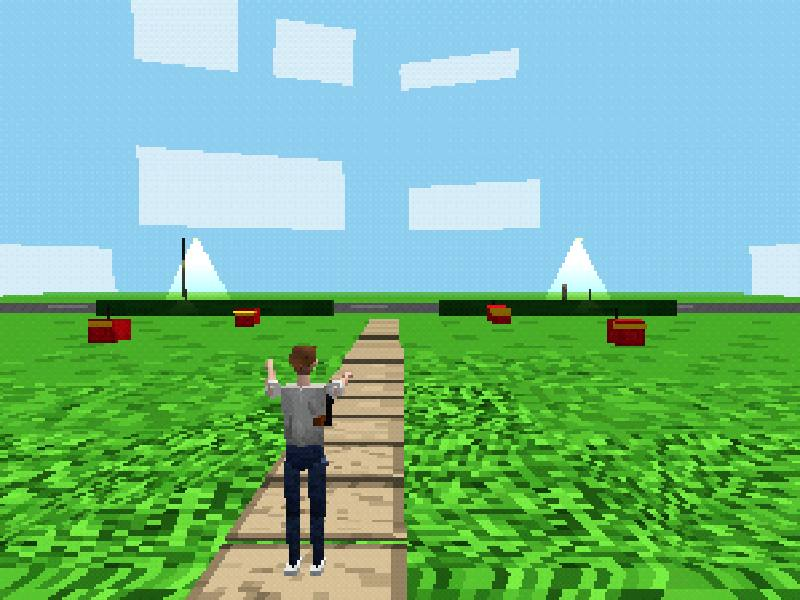
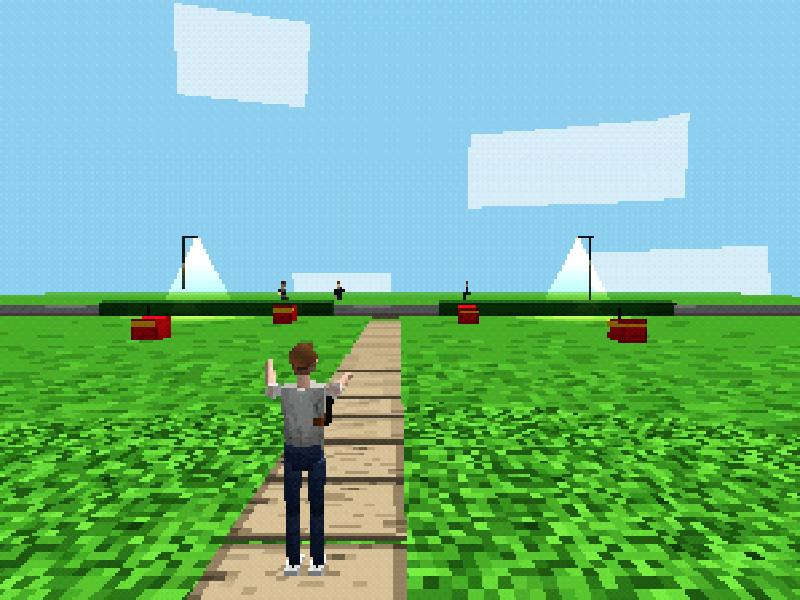
Minder warp en geen gebouwen meer aan de horizon
- Hoekpunten springen kleiner en textures zijn nog maar een kwart scheef;
  weg, stoep, gras en de schoolgang worden helemaal recht getekend
- Stadssilhouet op de horizon weg: dat leek op gebouwen die niet geladen waren

diff --git a/public/game.js b/public/game.js
@@ -590,7 +590,7 @@ function speak(text) {
   C.project_vertex += affine + `
   {
     float psxA = projectionMatrix[1][1] / projectionMatrix[0][0];
-    vec2 psxGrid = psxA >= 1.0 ? vec2(100.0 * psxA, 100.0) : vec2(100.0, 100.0 / psxA);
+    vec2 psxGrid = psxA >= 1.0 ? vec2(150.0 * psxA, 150.0) : vec2(150.0, 150.0 / psxA);
     vec4 sp = gl_Position;
     if (sp.w > 0.0) { sp.xy = floor(sp.xy / sp.w * psxGrid + 0.5) / psxGrid * sp.w; gl_Position = sp; }
   }`;
@@ -598,7 +598,8 @@ function speak(text) {
 #ifdef PSX_PERSP
   vec4 sampledDiffuseColor = texture2D( map, vMapUv );
 #else
-  vec4 sampledDiffuseColor = texture2D( map, vPsxUv.xy / vPsxUv.z );
+  // een beetje scheef voor het PS1-gevoel, maar niet zo dat alles zwemt
+  vec4 sampledDiffuseColor = texture2D( map, mix( vMapUv, vPsxUv.xy / vPsxUv.z, 0.25 ) );
 #endif
   // weinig kleuren per texture, zoals de kleurtabellen van de PS1
   {
@@ -1980,6 +1981,7 @@ const roadTex = canvasTex(256, 256, (x) => {
 roadTex.wrapS = roadTex.wrapT = THREE.RepeatWrapping;
 roadTex.repeat.set(1, 240 / ROAD_TILE);
 const road = new THREE.Mesh(new THREE.PlaneGeometry(ROAD_W, 240, 3, 40).rotateX(-Math.PI / 2), new THREE.MeshLambertMaterial({ map: roadTex }));
+road.material.defines = { PSX_PERSP: '' };
 road.position.z = -80;
 scene.add(road);
 
@@ -1991,6 +1993,7 @@ const walkTex = canvasTex(128, 128, (x) => {
 walkTex.wrapS = walkTex.wrapT = THREE.RepeatWrapping;
 walkTex.repeat.set(1, 240 / WALK_TILE);
 const walkMat = new THREE.MeshLambertMaterial({ map: walkTex });
+walkMat.defines = { PSX_PERSP: '' };
 const curbMat = M('#8f8b84');
 const grasTex = canvasTex(32, 32, (x) => {
   x.fillStyle = '#ffffff'; x.fillRect(0, 0, 32, 32);
@@ -1999,6 +2002,7 @@ const grasTex = canvasTex(32, 32, (x) => {
 });
 grasTex.wrapS = grasTex.wrapT = THREE.RepeatWrapping; grasTex.repeat.set(16, 96);
 const grasMat = new THREE.MeshLambertMaterial({ color: '#6f9a52', map: grasTex });
+grasMat.defines = { PSX_PERSP: '' };
 for (const side of [-1, 1]) {
   const w = new THREE.Mesh(new THREE.PlaneGeometry(4, 240, 1, 40).rotateX(-Math.PI / 2), walkMat);
   w.position.set(side * (ROAD_W / 2 + 2), 0.14, -80);
@@ -2237,7 +2241,7 @@ skyDome.renderOrder = -10;
 skyGroup.add(skyDome);
 // koepel en sterren reizen mee met de camera die op dat moment tekent (ook snap- en opnamecamera)
 scene.onBeforeRender = (r, sc, cam) => { skyGroup.position.copy(cam.position); };
-// wolken en een silhouet van de stad op de horizon: kleine, grove plaatjes op de koepel, zoals een PS1-skybox
+// wolken: een klein, grof plaatje op de koepel, zoals een PS1-skybox
 const cloudLayer = (() => {
   const t = canvasTex(128, 64, (x) => {
     x.clearRect(0, 0, 128, 64);
@@ -2254,32 +2258,6 @@ const cloudLayer = (() => {
   m.defines = { PSX_PERSP: '' };
   const c = new THREE.Mesh(new THREE.SphereGeometry(SKY_R - 1, 16, 8, 0, Math.PI * 2, 0, Math.PI * 0.46), m);
   c.renderOrder = -9;
-  skyGroup.add(c);
-  return c;
-})();
-const skyline = (() => {
-  const t = canvasTex(512, 64, (x) => {
-    x.clearRect(0, 0, 512, 64);
-    x.fillStyle = '#ffffff';
-    let px = 0;
-    while (px < 512) {
-      const w = Math.floor(rand(10, 28)), h = Math.floor(rand(8, 24));
-      x.fillRect(px, 64 - h, w, h);
-      // af en toe een kerktoren of flat
-      if (Math.random() < 0.14) { x.fillRect(px + w / 2 - 2, 64 - h - 18, 4, 18); x.beginPath(); x.moveTo(px + w / 2 - 4, 64 - h - 18); x.lineTo(px + w / 2, 64 - h - 34); x.lineTo(px + w / 2 + 4, 64 - h - 18); x.fill(); }
-      else if (Math.random() < 0.1) x.fillRect(px + 2, 64 - h - 20, w - 4, 20);
-      px += w;
-    }
-    // de Waalbrug
-    x.strokeStyle = '#ffffff'; x.lineWidth = 3;
-    x.beginPath(); x.moveTo(300, 48); x.quadraticCurveTo(350, 2, 400, 48); x.stroke();
-    for (let i = 0; i < 9; i++) x.fillRect(308 + i * 10, 26 + Math.abs(i - 4) * 4, 2, 24);
-  });
-  t.wrapS = THREE.RepeatWrapping; t.repeat.set(2, 1);
-  const m = new THREE.MeshBasicMaterial({ map: t, alphaTest: 0.5, depthWrite: false, side: THREE.BackSide, fog: false });
-  m.defines = { PSX_PERSP: '' };
-  const c = new THREE.Mesh(new THREE.CylinderGeometry(SKY_R - 2, SKY_R - 2, 15, 20, 1, true), m);
-  c.position.y = 2.5; c.renderOrder = -8;
   skyGroup.add(c);
   return c;
 })();
@@ -2303,9 +2281,9 @@ moon.visible = false;
 skyGroup.add(moon);
 let night = false;
 const LOOKS = {
-  dag: { top: '#2c6fc8', mid: '#7ab4e8', hor: '#cfd9d8', hs: '#cfdcf0', hg: '#5a4a3a', hi: 1.5, sc: '#fff0cc', si: 3.3, fog: [14, 58], win: 0, lan: 0, cl: '#ffffff', cla: 0.95, sl: '#7f8fa0' },
-  avond: { top: '#241c5e', mid: '#c8452e', hor: '#ff9a3a', hs: '#d88a78', hg: '#3a2028', hi: 1.15, sc: '#ff7a2c', si: 3.0, fog: [13, 56], win: 0.75, lan: 3, cl: '#ffb48a', cla: 0.85, sl: '#3a1c34' },
-  nacht: { top: '#01020c', mid: '#050a2c', hor: '#101a52', hs: '#4258b8', hg: '#0c0a20', hi: 0.8, sc: '#7f96ff', si: 0.7, fog: [10, 50], win: 1, lan: 8, cl: '#3a4a88', cla: 0.5, sl: '#060818' },
+  dag: { top: '#2c6fc8', mid: '#7ab4e8', hor: '#cfd9d8', hs: '#cfdcf0', hg: '#5a4a3a', hi: 1.5, sc: '#fff0cc', si: 3.3, fog: [14, 58], win: 0, lan: 0, cl: '#ffffff', cla: 0.95 },
+  avond: { top: '#241c5e', mid: '#c8452e', hor: '#ff9a3a', hs: '#d88a78', hg: '#3a2028', hi: 1.15, sc: '#ff7a2c', si: 3.0, fog: [13, 56], win: 0.75, lan: 3, cl: '#ffb48a', cla: 0.85 },
+  nacht: { top: '#01020c', mid: '#050a2c', hor: '#101a52', hs: '#4258b8', hg: '#0c0a20', hi: 0.8, sc: '#7f96ff', si: 0.7, fog: [10, 50], win: 1, lan: 8, cl: '#3a4a88', cla: 0.5 },
 };
 const PHASES = ['dag', 'avond', 'nacht'];
 let phaseT = 0, phaseGoal = 0; // 0 = dag, 1 = avond, 2 = nacht (ertussenin = overgang)
@@ -2332,7 +2310,6 @@ function applyLook(t) {
   for (const m of allFacadeMats) m.emissiveIntensity = num('win');
   lantern.intensity = num('lan');
   mixCol(cloudLayer.material.color, A.cl, B.cl, k); cloudLayer.material.opacity = num('cla');
-  mixCol(skyline.material.color, A.sl, B.sl, k);
   const lamps = t > 0.7;
   lampHeadMat.emissive.set(lamps ? '#ffe9a0' : '#ccb877');
   for (const g of lampGlows) g.visible = lamps;
@@ -5789,6 +5766,7 @@ const corridor = new THREE.Group();
   const zwart = new THREE.MeshBasicMaterial({ color: '#000000', fog: false });
   const ver = new THREE.Mesh(new THREE.PlaneGeometry(ROAD_W + 2, H2 + 2), zwart); ver.position.set(0, H2 / 2, -199);
   const dicht = new THREE.Mesh(new THREE.PlaneGeometry(ROAD_W + 2, H2 + 2).rotateY(Math.PI), zwart); dicht.position.set(0, H2 / 2, 39);
+  for (const v of [wl, wr, ul, ur, ceil]) v.material.defines = { PSX_PERSP: '' };
   corridor.add(wl, wr, ceil, ver, dicht);
   corridor.visible = false;
   scene.add(corridor);
